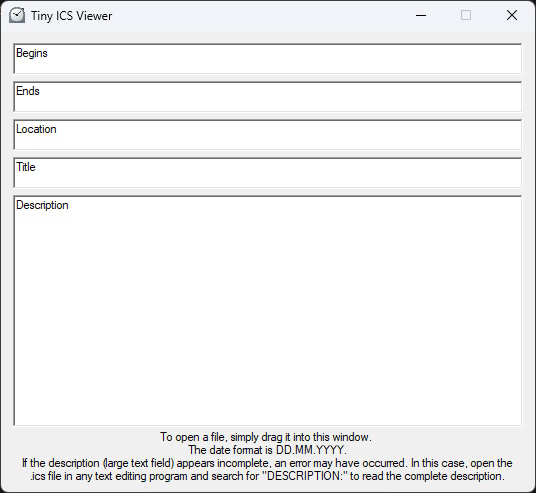
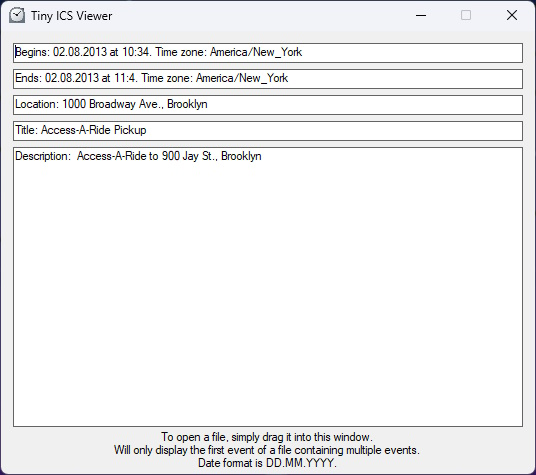
Updated screenshot and readme

diff --git a/README.md b/README.md
@@ -5,4 +5,4 @@
 Small program that displays the most important information from .ics files.
 Simply drag and drop the .ics you want to look at into the application window and it'll show you start and end date (DD.MM.YYYY), time zone, location, title and description event.
 
-Known issues: The description is truncated at newlines; if this occurs, the .ics file must be opened in a regular text editor and searched for "DESCRIPTION:" to read the full description.
+Known issues: Will only display the first event of a file containing multiple events.
